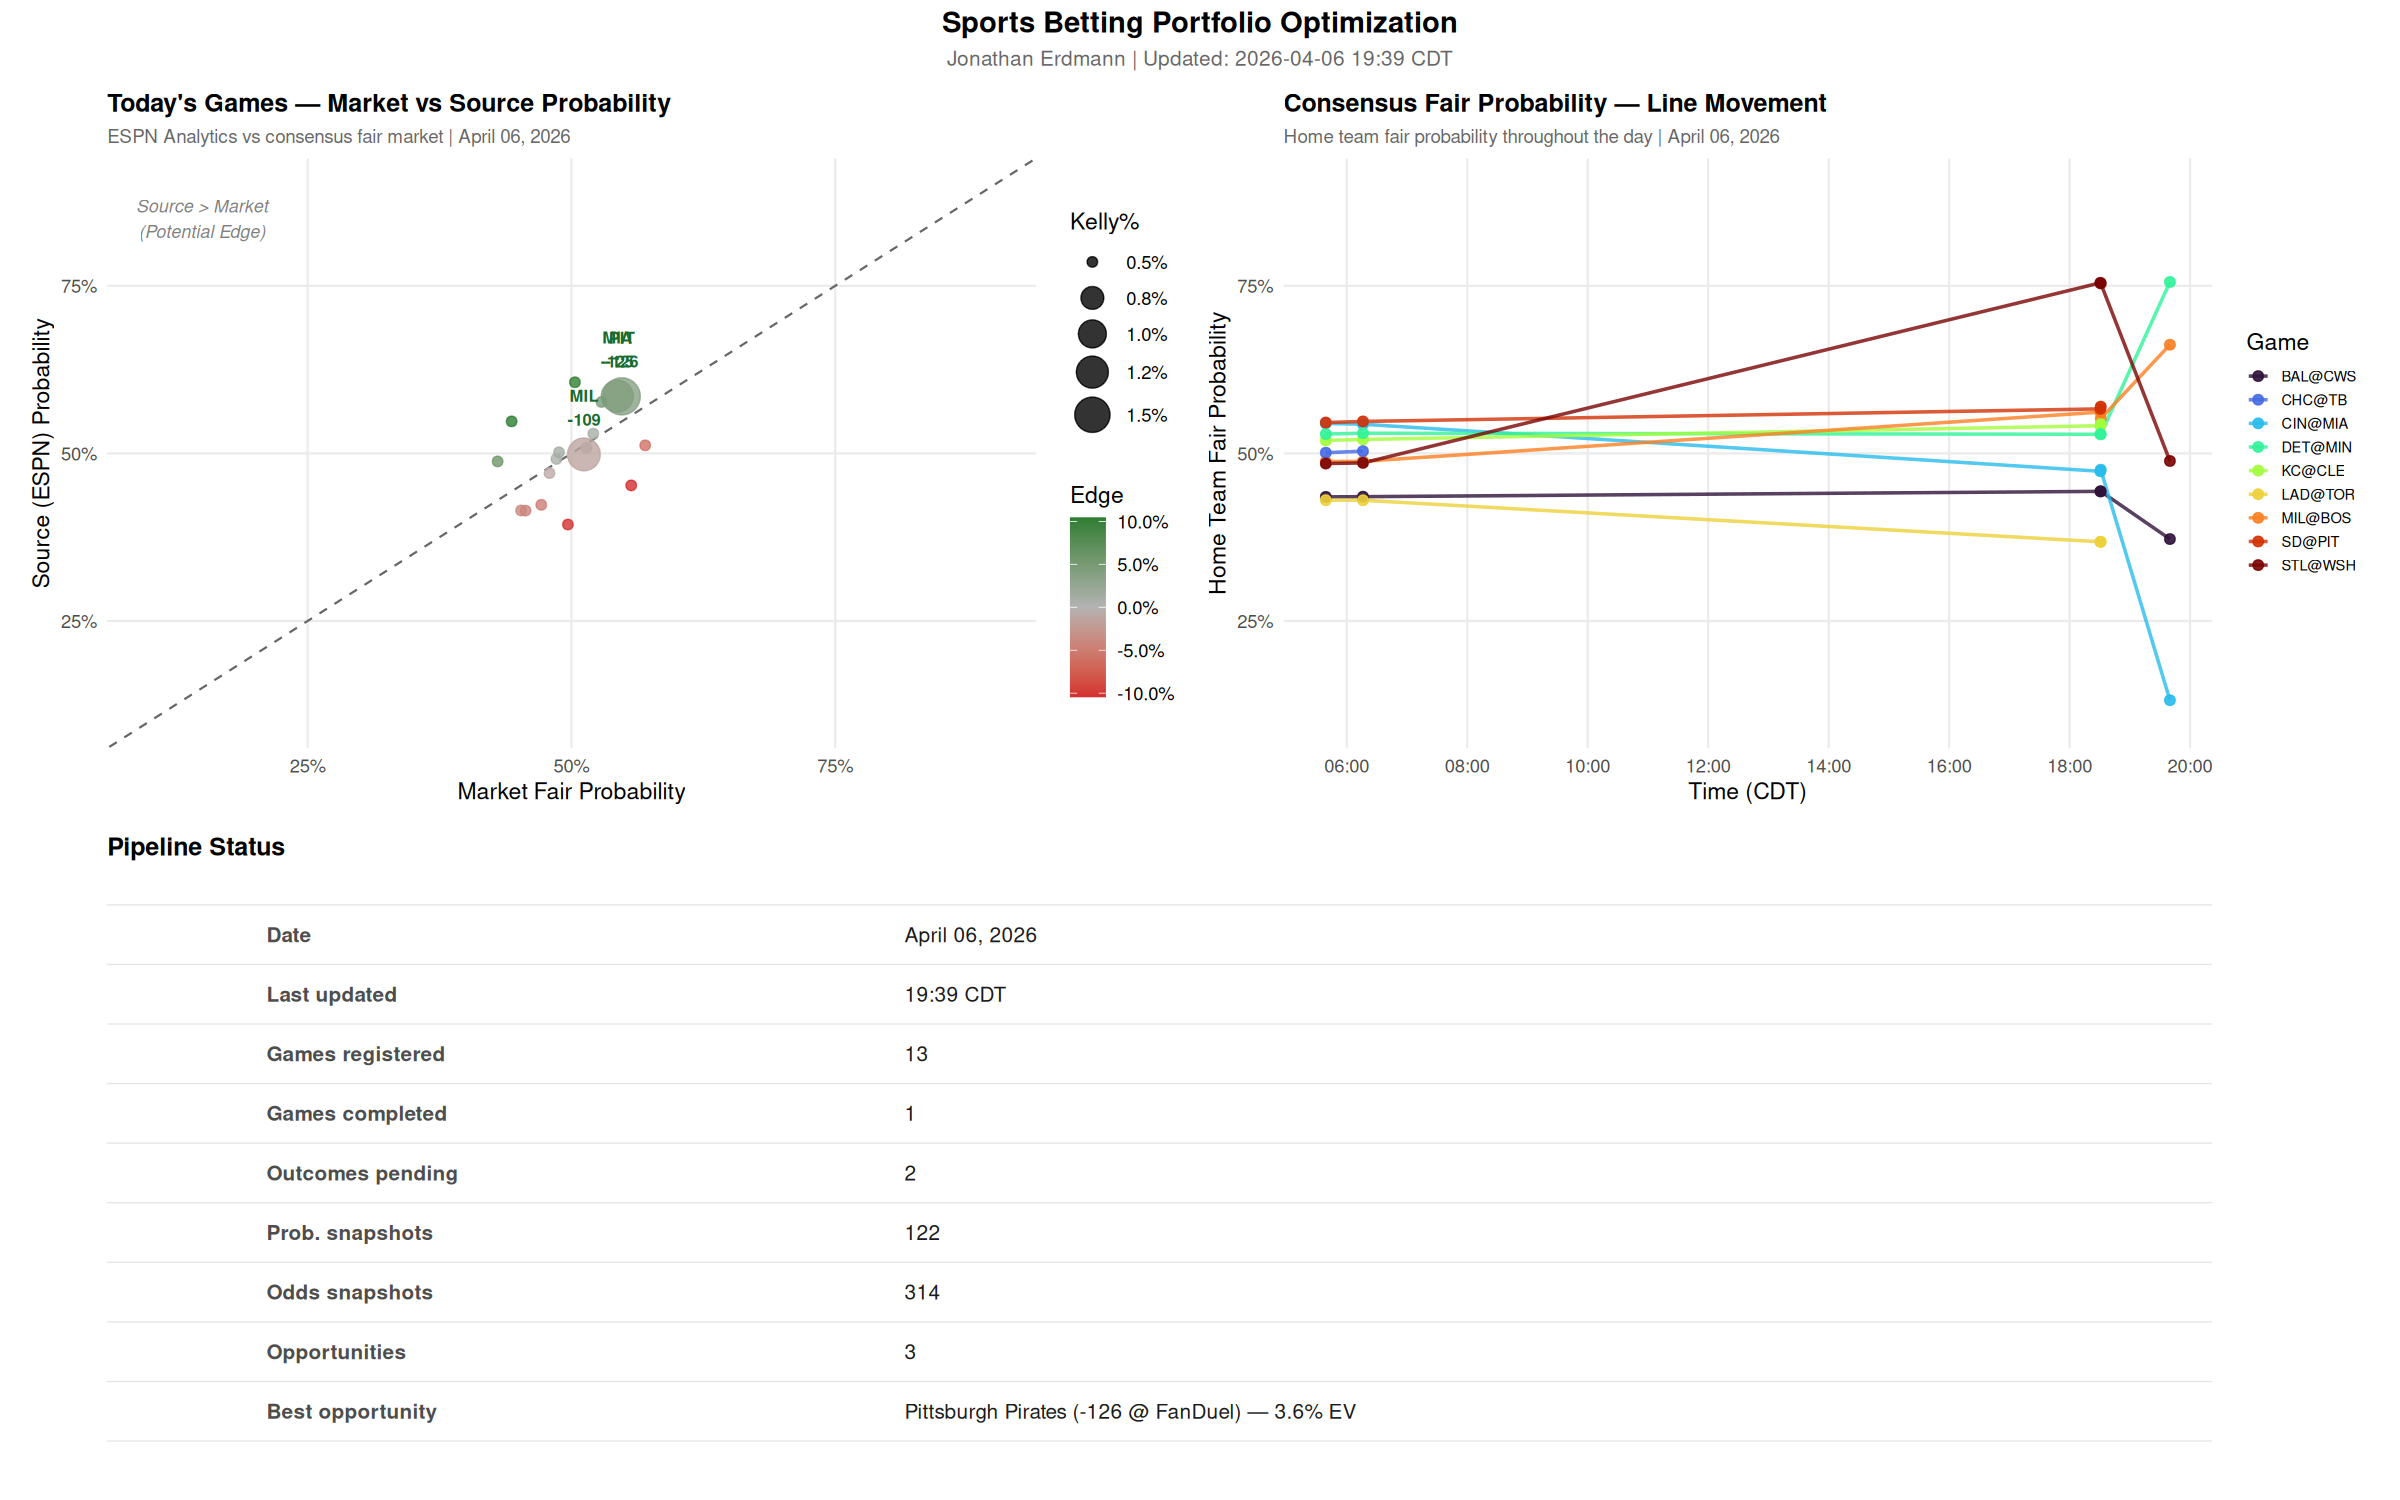
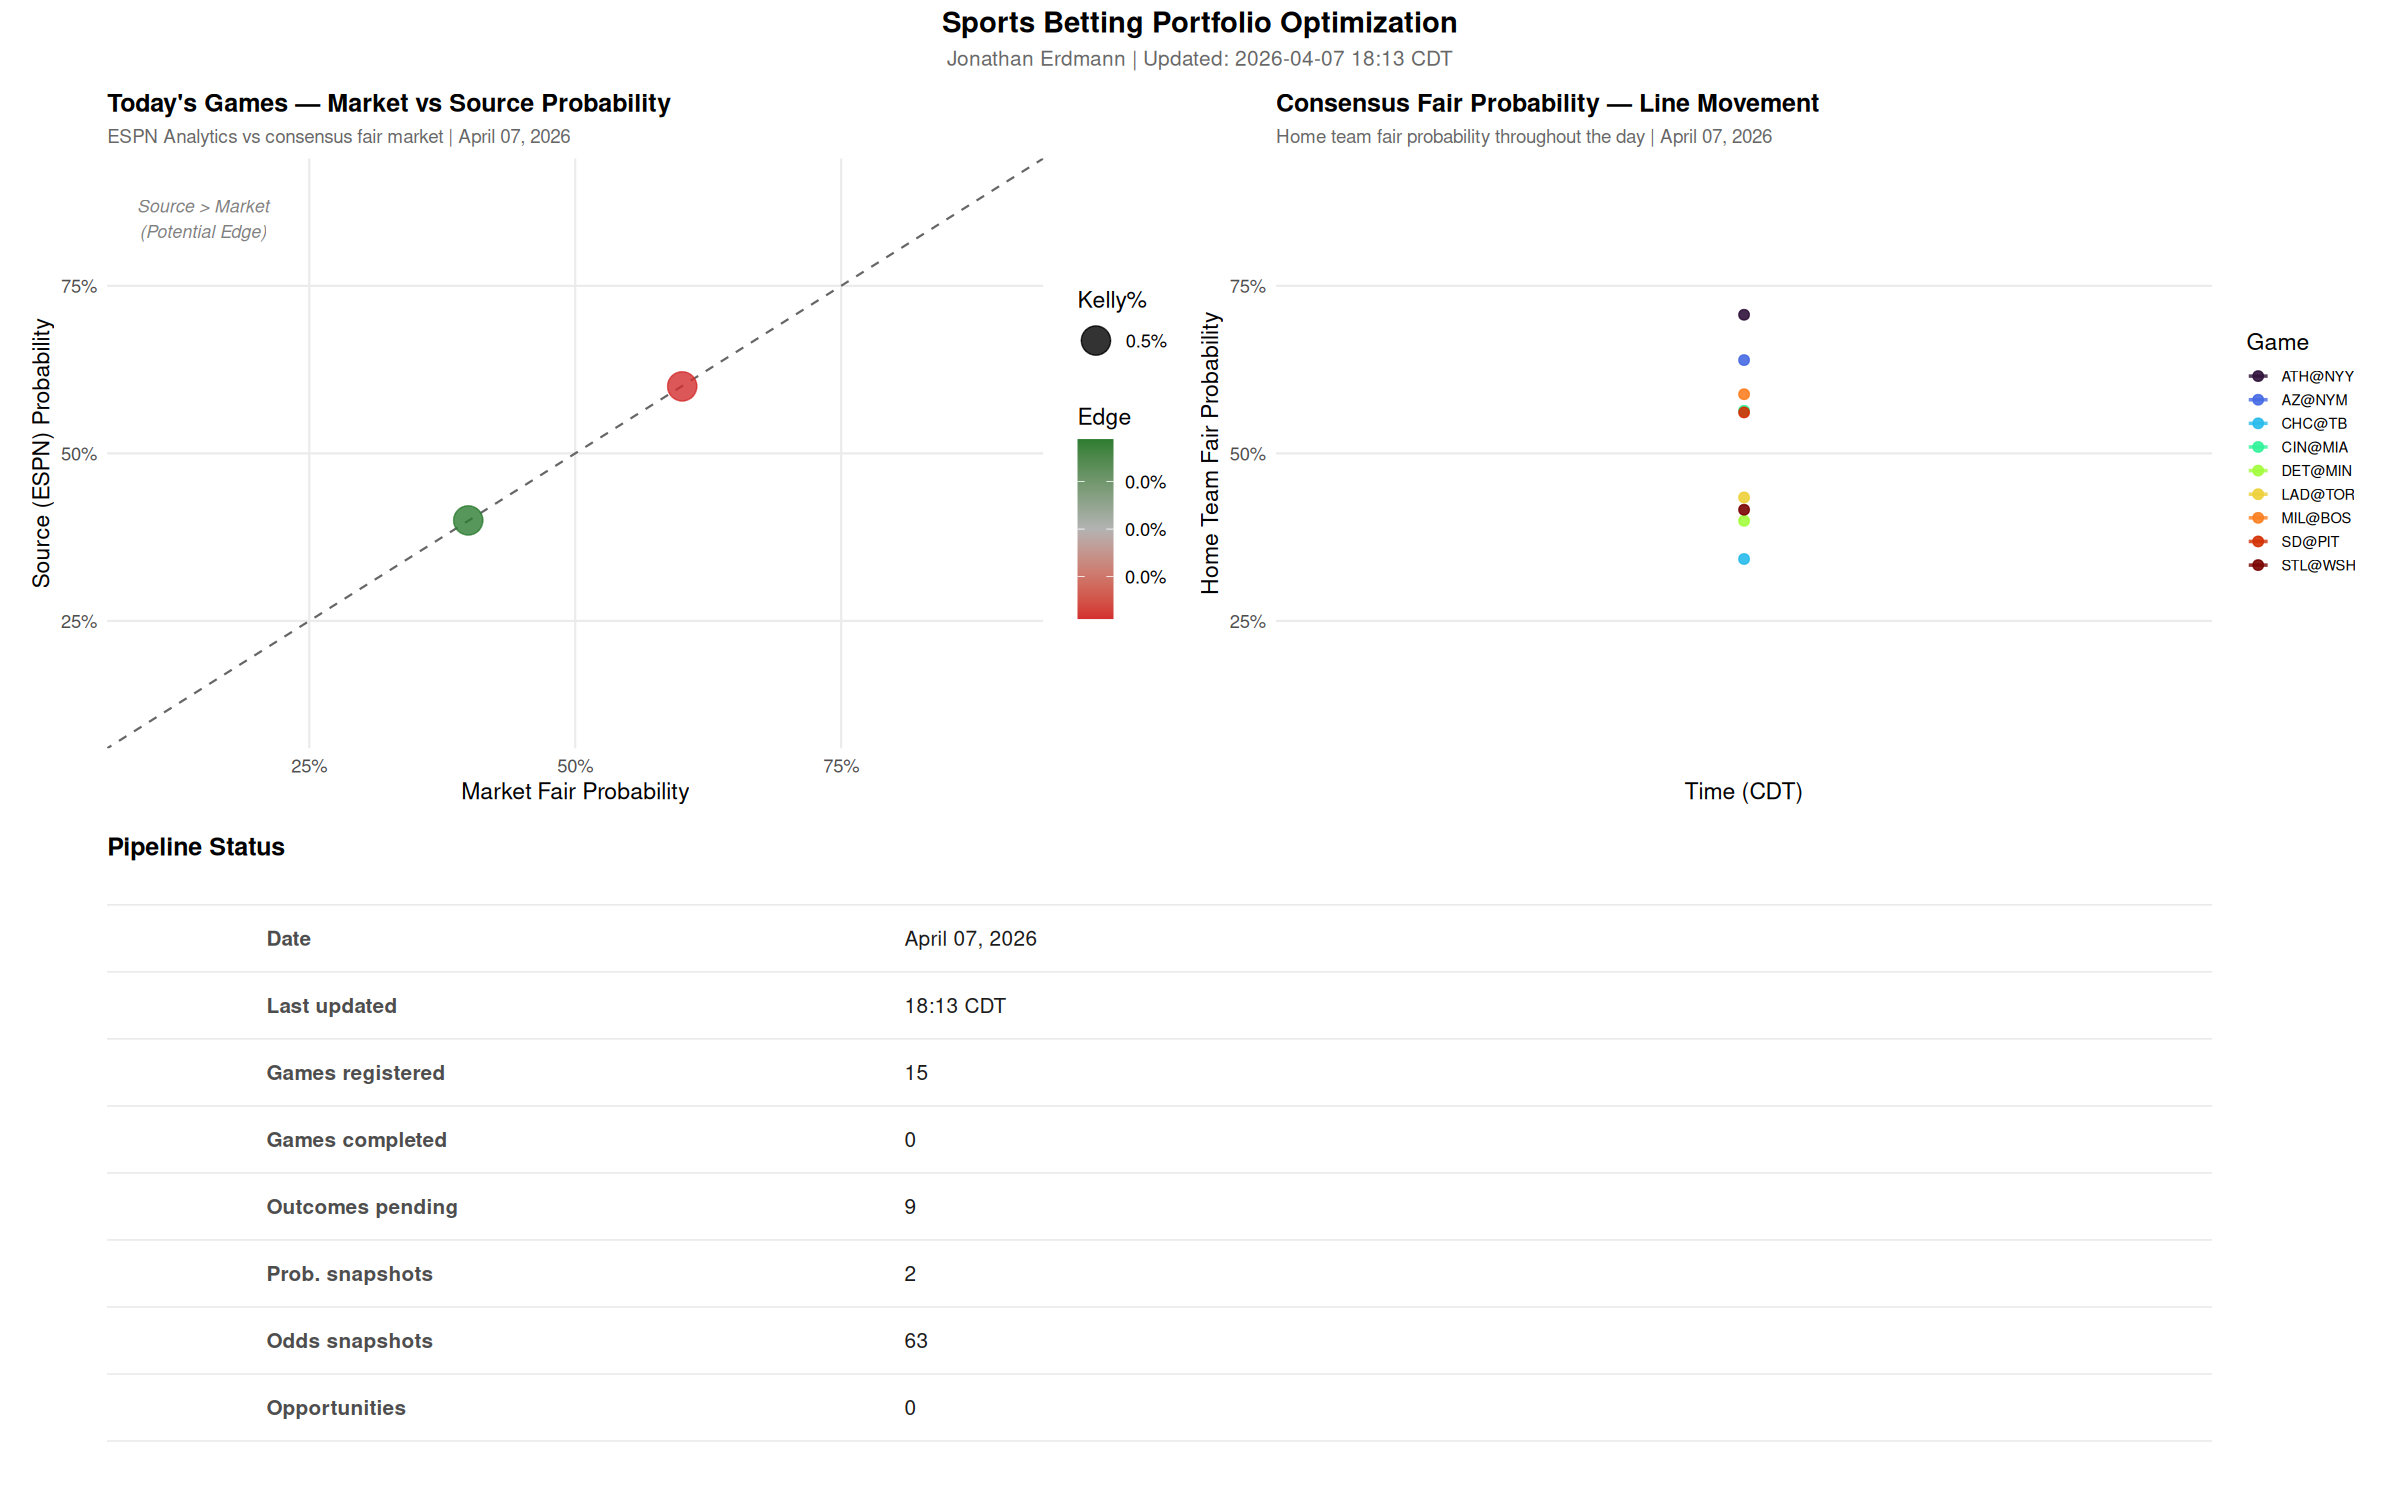
Update dashboard: 2026-04-07 18:13

diff --git a/projects/portfolio-optimization/dashboard.md b/projects/portfolio-optimization/dashboard.md
@@ -6,17 +6,14 @@ permalink: /projects/portfolio-optimization/dashboard/
 
 ## Daily Pipeline Dashboard
 
-**Last updated:** April 06, 2026 19:39 CDT
+**Last updated:** April 07, 2026 18:13 CDT
 
 ---
 
 ### Today's +EV Opportunities
 
-| Team | ML | Market% | Posterior% | EV% | Kelly% | Bet by | Book |
-|---|---|---|---|---|---|---|---|
-| Pittsburgh Pirates | -126 | 54.6% | 57.8% | 3.6% | 1.15% | 15:40 CDT | FanDuel |
-| Milwaukee Brewers | -109 | 51.2% | 53.7% | 3.0% | 0.80% | 15:45 CDT | BetUS |
-| Miami Marlins | -125 | 54.5% | 56.9% | 2.4% | 0.75% | 15:40 CDT | BetMGM |
+
+*No positive EV opportunities identified today.*
 
 ---
 
